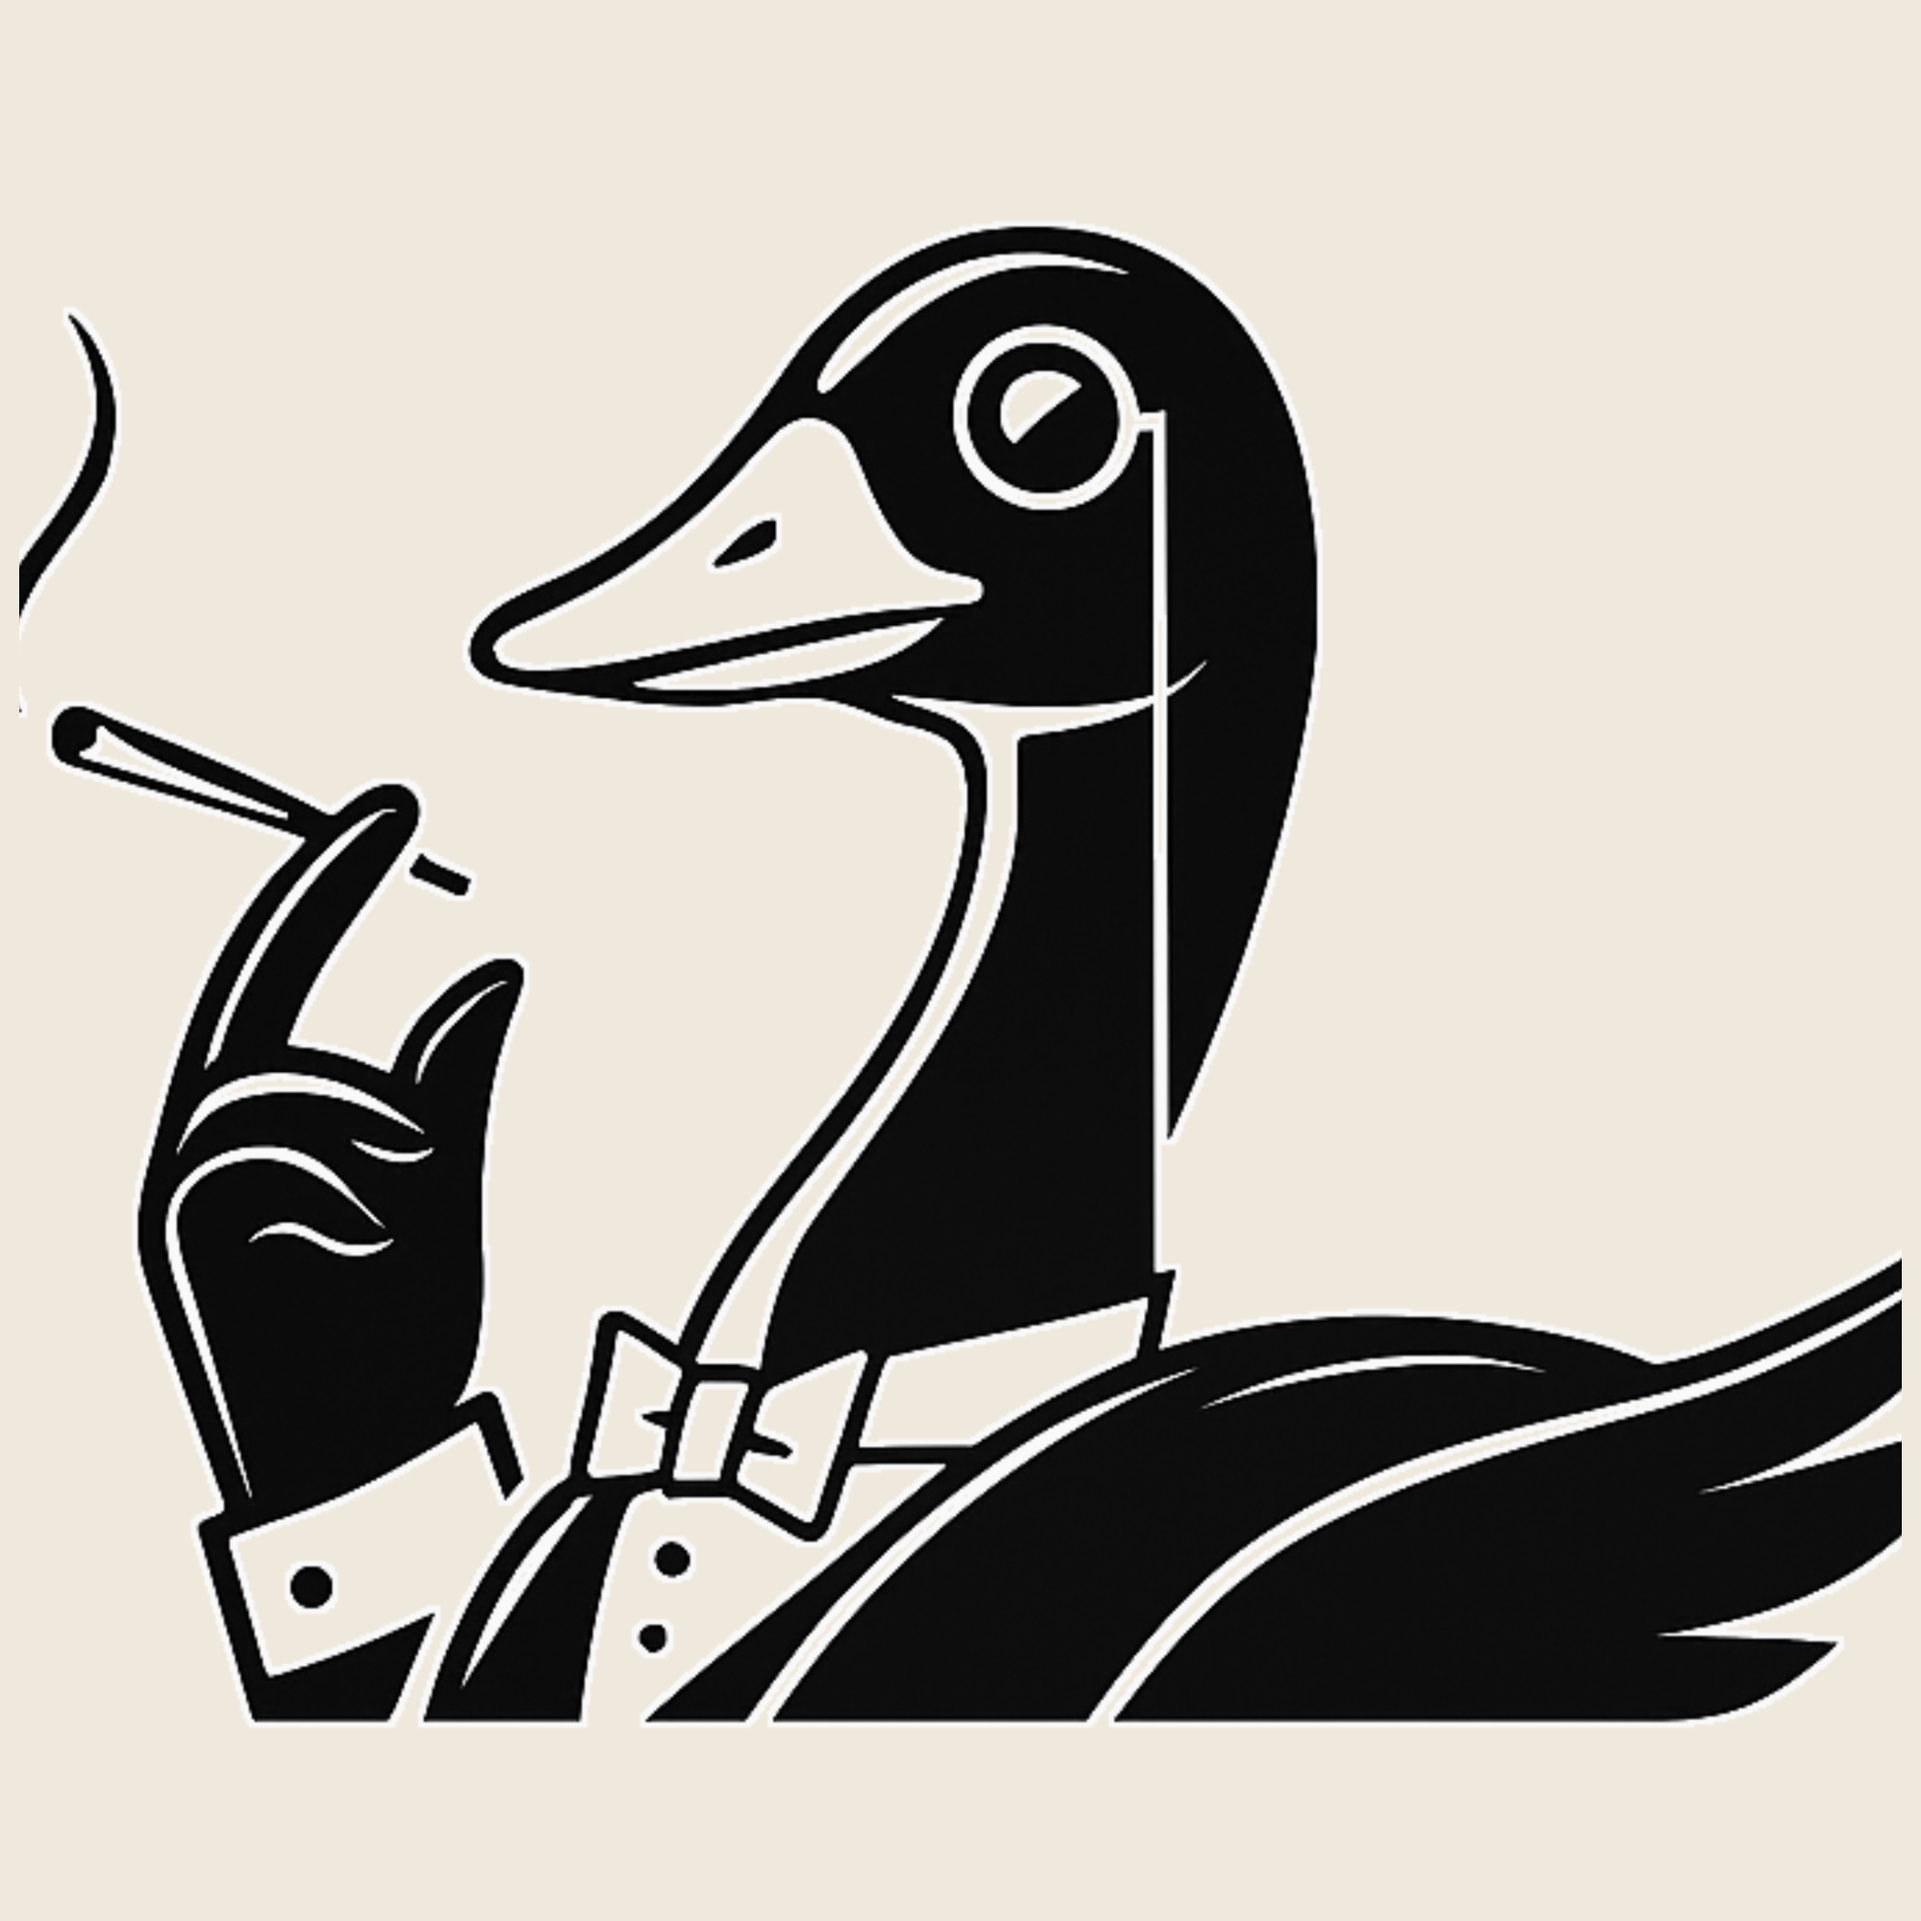
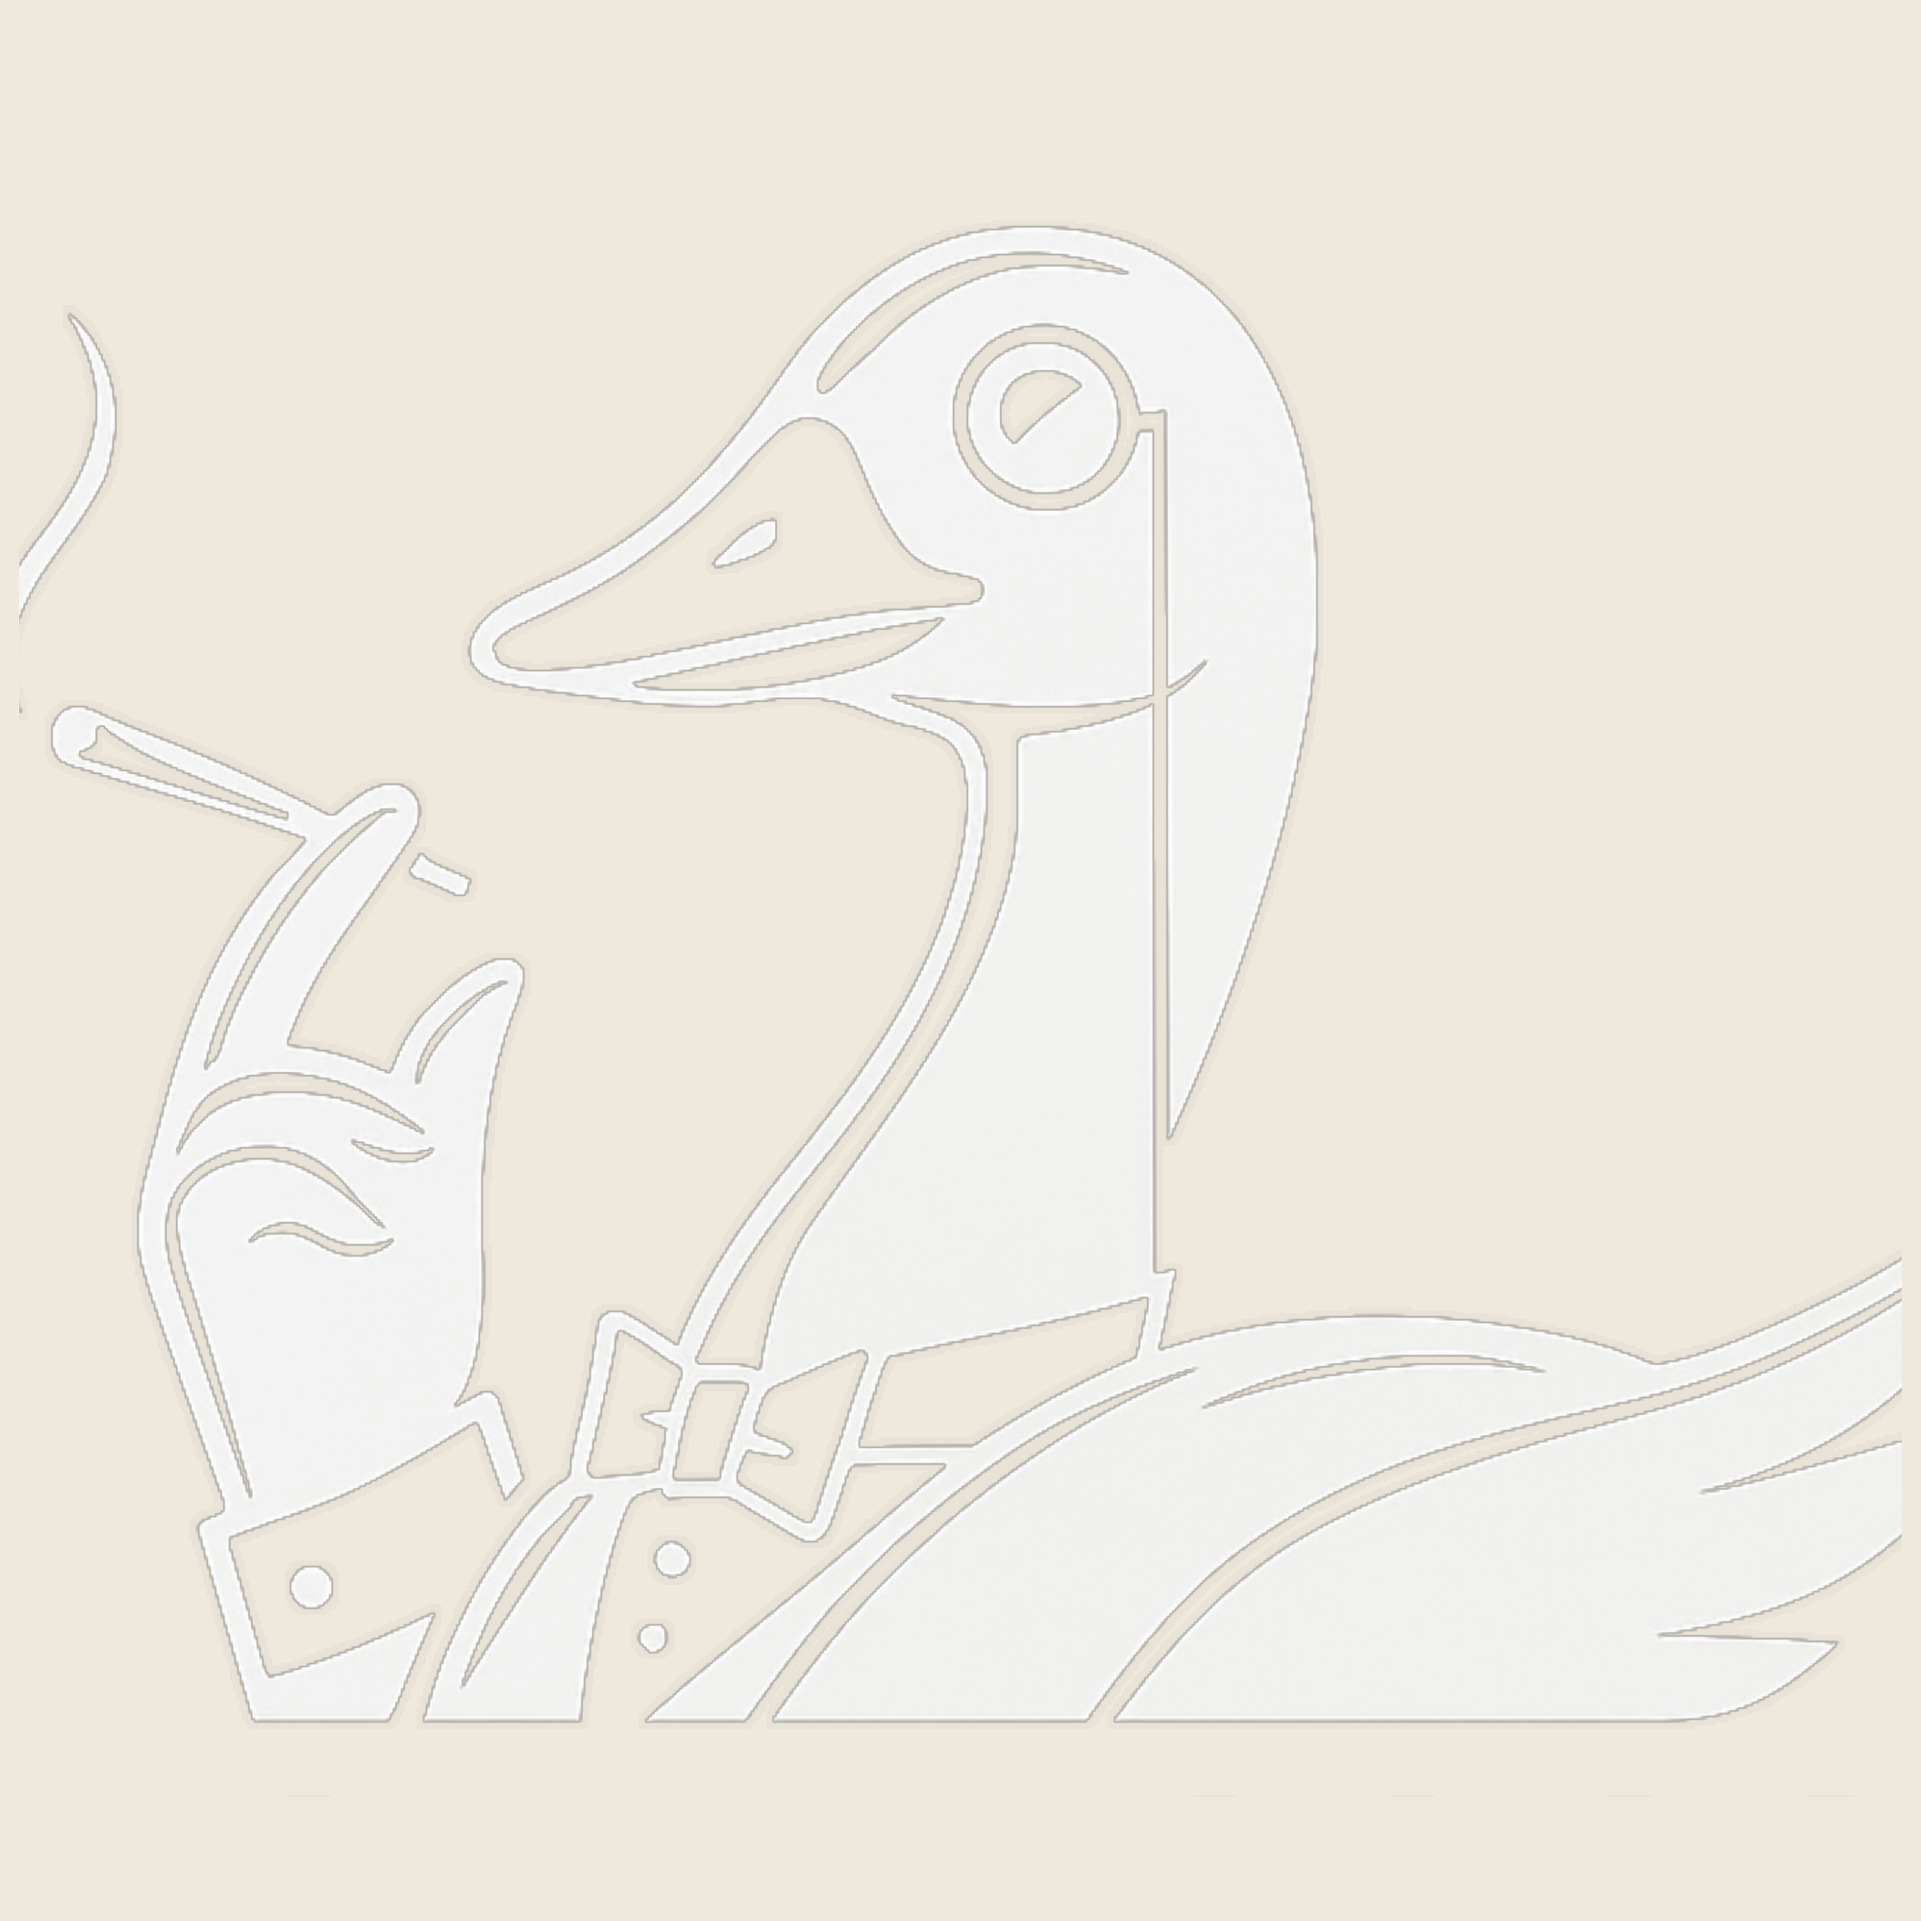
Phase B: place Stoned Goose mark in footer, 404, hero, nav, mobile menu
- footer.tsx: mark above the brand block, 64px mobile / 80px desktop
- not-found.tsx: 140/200px mark above "Lost." with halftone overlay
- hero.tsx: 32px mark left of mono status row, 60% opacity haze tone
- nav.tsx desktop: hover/focus reveals 24px mark + hazard underline on
  the period, motion-reduce safe
- nav.tsx mobile: 96px mark above the masthead nav links

All placements use the transparent illustration variant so the bone
silhouette floats on whatever surface it lands on.

diff --git a/scripts/brand/generate-brand-assets.ts b/scripts/brand/generate-brand-assets.ts
@@ -8,6 +8,8 @@
 // on-ink variant. Run with `npm run brand:generate`. Commit the outputs.
 //
 // Outputs (all under public/brand/):
+//   stoned-goose-mark.png          (master, untouched)
+//   stoned-goose-mark-illustration.png  bone-on-transparent illustration crop
 //   stoned-goose-mark-on-ink.png   illustration centered on a black square (2000)
 //   stoned-goose-mark-on-bone.png  illustration recolored ink on a bone square
 //   og-mark.png                    256x256 on-ink mark for OG card watermark
@@ -34,10 +36,22 @@ const BONE = { r: 239, g: 233, b: 221, alpha: 1 };
 const CROP = { left: 220, top: 60, width: 1960, height: 1740 } as const;
 const SQUARE = 2000;
 
-async function illustrationOnInk(): Promise<Buffer> {
-  const cropped = await sharp(SRC)
-    .extract(CROP)
+// Source is white-on-solid-black. Convert the black background to transparent
+// so the bone-colored illustration floats on whatever surface it lands on.
+// Strategy: lift the red channel as the alpha channel (white=255 stays opaque,
+// black=0 becomes transparent). Then recolor the surviving pixels to bone.
+async function illustrationTransparent(): Promise<Buffer> {
+  const cropped = await sharp(SRC).extract(CROP).removeAlpha().toBuffer();
+  const alpha = await sharp(cropped).extractChannel(0).toBuffer();
+  const tinted = await sharp(cropped)
+    .removeAlpha()
+    .tint({ r: 239, g: 233, b: 221 })
     .toBuffer();
+  return sharp(tinted).joinChannel(alpha).png().toBuffer();
+}
+
+async function illustrationOnInk(): Promise<Buffer> {
+  const transparent = await illustrationTransparent();
   return sharp({
     create: {
       width: SQUARE,
@@ -48,7 +62,7 @@ async function illustrationOnInk(): Promise<Buffer> {
   })
     .composite([
       {
-        input: cropped,
+        input: transparent,
         top: Math.round((SQUARE - CROP.height) / 2),
         left: Math.round((SQUARE - CROP.width) / 2),
       },
@@ -58,12 +72,15 @@ async function illustrationOnInk(): Promise<Buffer> {
 }
 
 async function illustrationOnBone(): Promise<Buffer> {
-  // The cropped illustration is white-on-black. To produce a bone-friendly
-  // ink-on-bone version, invert the colors then composite onto a bone canvas.
-  const cropped = await sharp(SRC)
-    .extract(CROP)
-    .negate({ alpha: false })
+  // For bone surfaces: take the cropped white-on-black, recolor the white
+  // pixels to ink and use the inverted red channel as alpha.
+  const cropped = await sharp(SRC).extract(CROP).removeAlpha().toBuffer();
+  const alpha = await sharp(cropped).extractChannel(0).toBuffer();
+  const tinted = await sharp(cropped)
+    .removeAlpha()
+    .tint({ r: 10, g: 10, b: 10 })
     .toBuffer();
+  const inkOnTransparent = await sharp(tinted).joinChannel(alpha).png().toBuffer();
   return sharp({
     create: {
       width: SQUARE,
@@ -74,7 +91,7 @@ async function illustrationOnBone(): Promise<Buffer> {
   })
     .composite([
       {
-        input: cropped,
+        input: inkOnTransparent,
         top: Math.round((SQUARE - CROP.height) / 2),
         left: Math.round((SQUARE - CROP.width) / 2),
       },
@@ -86,6 +103,14 @@ async function illustrationOnBone(): Promise<Buffer> {
 async function main() {
   await mkdir(OUT, { recursive: true });
   console.log("Generating brand assets from", SRC);
+
+  const transparent = await illustrationTransparent();
+  await sharp(transparent).toFile(
+    join(OUT, "stoned-goose-mark-illustration.png"),
+  );
+  console.log(
+    `  -> stoned-goose-mark-illustration.png (${CROP.width}x${CROP.height}, transparent bg)`,
+  );
 
   const onInk = await illustrationOnInk();
   await sharp(onInk).toFile(join(OUT, "stoned-goose-mark-on-ink.png"));

diff --git a/components/nav.tsx b/components/nav.tsx
@@ -1,5 +1,6 @@
 "use client";
 
+import Image from "next/image";
 import Link from "next/link";
 import { useEffect, useState } from "react";
 import { cn } from "@/lib/utils";
@@ -37,11 +38,29 @@ export function Nav() {
         <Link
           href="/"
           aria-label={`${site.shortName} home`}
-          className="group inline-flex items-baseline"
+          className="group inline-flex items-center gap-2"
         >
+          <Image
+            src="/brand/stoned-goose-mark-illustration.png"
+            alt=""
+            width={28}
+            height={24}
+            priority
+            className={cn(
+              "h-6 w-auto -translate-x-2 opacity-0 transition-all duration-300 ease-out",
+              "group-hover:translate-x-0 group-hover:opacity-90",
+              "group-focus-visible:translate-x-0 group-focus-visible:opacity-90",
+              "motion-reduce:translate-x-0 motion-reduce:opacity-90 motion-reduce:transition-none",
+            )}
+          />
           <span className="font-display text-xl leading-none tracking-[-0.02em] text-bone md:text-[1.4rem]">
             Stoned Goose
-            <span aria-hidden className="text-hazard">.</span>
+            <span
+              aria-hidden
+              className="text-hazard transition-[text-decoration-color] group-hover:underline group-hover:decoration-hazard group-hover:decoration-2 group-hover:underline-offset-2 group-focus-visible:underline group-focus-visible:decoration-hazard group-focus-visible:decoration-2 group-focus-visible:underline-offset-2"
+            >
+              .
+            </span>
           </span>
         </Link>
 
@@ -96,8 +115,16 @@ export function Nav() {
       >
         <nav
           aria-label="Mobile primary"
-          className="flex h-full flex-col justify-between px-6 pb-12 pt-10"
+          className="flex h-full flex-col justify-between px-6 pb-12 pt-8"
         >
+          <Image
+            src="/brand/stoned-goose-mark-illustration.png"
+            alt=""
+            width={120}
+            height={106}
+            priority
+            className="mb-8 block h-24 w-auto opacity-90"
+          />
           <ul className="flex flex-col">
             {nav.map((item, i) => (
               <li key={item.href} className="border-b border-bone/10">

diff --git a/app/not-found.tsx b/app/not-found.tsx
@@ -1,5 +1,6 @@
 "use client";
 
+import Image from "next/image";
 import Link from "next/link";
 import { useEffect, useState } from "react";
 
@@ -57,9 +58,23 @@ export default function NotFound() {
   }, []);
 
   return (
-    <section className="relative flex min-h-[80svh] items-center bg-ink">
-      <div className="mx-auto max-w-[1400px] px-5 pt-32 md:px-10">
-        <p className="font-body text-[10px] font-medium uppercase tracking-[0.18em] text-hazard">
+    <section className="relative flex min-h-[88svh] flex-col items-start bg-ink pt-32 md:pt-40">
+      <div className="mx-auto w-full max-w-[1400px] px-5 md:px-10">
+        <div className="relative h-[140px] w-[140px] md:h-[200px] md:w-[200px]">
+          <Image
+            src="/brand/stoned-goose-mark-illustration.png"
+            alt=""
+            fill
+            sizes="(min-width: 768px) 200px, 140px"
+            className="object-contain opacity-80"
+            priority
+          />
+          <span
+            aria-hidden
+            className="pointer-events-none absolute inset-0 [background-image:radial-gradient(rgba(10,10,10,0.45)_1px,transparent_1.2px)] [background-size:3px_3px] mix-blend-multiply"
+          />
+        </div>
+        <p className="mt-10 font-body text-[10px] font-medium uppercase tracking-[0.18em] text-hazard">
           [ Static / 404 / Misfire ]
         </p>
         <h1 className="heading-display mt-6 text-[clamp(4rem,18vw,16rem)] text-bone">
@@ -96,7 +111,7 @@ export default function NotFound() {
           ))}
         </ul>
 
-        <div className="mt-10 flex flex-wrap gap-3">
+        <div className="mt-10 flex flex-wrap gap-3 pb-20">
           <Link
             href="/"
             className="inline-flex h-12 items-center bg-hazard px-6 font-body text-xs font-semibold uppercase tracking-[0.18em] text-ink hover:bg-bone"

diff --git a/components/hero.tsx b/components/hero.tsx
@@ -1,5 +1,6 @@
 "use client";
 
+import Image from "next/image";
 import Link from "next/link";
 import { hero } from "@/content/home";
 import { track } from "@/lib/analytics";
@@ -18,11 +19,23 @@ export function Hero() {
       />
 
       <div className="relative mx-auto max-w-[1400px] px-5 pb-16 pt-32 md:px-10 md:pb-20 md:pt-36">
-        {/* The single mono use, per the spec: a status banner. */}
-        <p className="font-mono text-[10px] uppercase tracking-[0.22em] text-bone/55">
-          Now booking{" "}
-          <span className="text-bone">corporate events + media production</span>
-        </p>
+        {/* The single mono use, per the spec: a status banner. The 32px mark
+            sits left as a quiet brand-anchor: opacity holds it back so the
+            wordmark below stays the focal point. */}
+        <div className="flex items-center gap-3">
+          <Image
+            src="/brand/stoned-goose-mark-illustration.png"
+            alt=""
+            width={32}
+            height={28}
+            priority
+            className="h-7 w-auto opacity-60"
+          />
+          <p className="font-mono text-[10px] uppercase tracking-[0.22em] text-bone/55">
+            Now booking{" "}
+            <span className="text-bone">corporate events + media production</span>
+          </p>
+        </div>
 
         {/* Two-line lockup, same display size, left-aligned, period-as-accent. */}
         <h1 className="heading-display mt-8 text-[clamp(3.5rem,12vw,11rem)] text-bone">

diff --git a/components/footer.tsx b/components/footer.tsx
@@ -1,5 +1,6 @@
 "use client";
 
+import Image from "next/image";
 import Link from "next/link";
 import { site } from "@/content/site";
 import { track } from "@/lib/analytics";
@@ -39,7 +40,15 @@ export function Footer() {
       <div className="mx-auto max-w-[1400px] px-5 pb-10 pt-20 md:px-10 md:pt-32">
         <div className="grid gap-12 md:grid-cols-12">
           <div className="md:col-span-5">
-            <p className="font-body text-[10px] font-medium uppercase tracking-[0.18em] text-bone/45">
+            <Image
+              src="/brand/stoned-goose-mark-illustration.png"
+              alt=""
+              width={160}
+              height={142}
+              priority={false}
+              className="block h-16 w-auto opacity-90 md:h-20"
+            />
+            <p className="mt-4 font-body text-[10px] font-medium uppercase tracking-[0.18em] text-bone/45">
               Olympia, WA
             </p>
             <h2 className="mt-3 font-display text-5xl leading-[0.95] tracking-[-0.02em] md:text-7xl">
